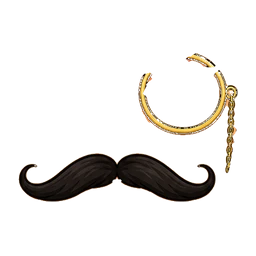
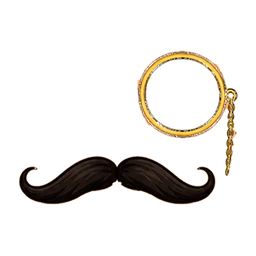
The beard: grows a level a day unshaven (the artist's 3 levels), «Побриться» with a razor in the hero editor, achievements «Небритый» and «Брадобрей»; the monocle redrawn by the artist
Claude-Session: https://claude.ai/code/session_01E3jaUxUo8xTQNwyakAWMq3

Changed region(s): [[0.0625, 0.5938, 0.8438, 0.8125], [0.5312, 0.1875, 0.9375, 0.6875]]

diff --git a/src/server/systems/home.ts b/src/server/systems/home.ts
@@ -1,6 +1,6 @@
 import { GameError, type Queryable } from "../db.ts";
 import { grantReward, ledger, takeMoney, type Ctx } from "../core.ts";
-import { EQUIPMENT, FIRST_STEPS_GIFT, pieceUnlockId, HELP_TOPICS, TROPHIES, baseBit, equipmentById, hasPiece, piecesCount, normalizeLook, roomById, roomUnlockId, roomsEnergyBonus, totalBonus, type HelpTopic, type Look } from "../../content/home.ts";
+import { EQUIPMENT, FIRST_STEPS_GIFT, pieceUnlockId, HELP_TOPICS, TROPHIES, baseBit, equipmentById, hasPiece, piecesCount, normalizeLook, roomById, roomUnlockId, roomsEnergyBonus, totalBonus, type HelpTopic, type Look, beardLevel, unshavenDays } from "../../content/home.ts";
 import { bossById } from "../../content/bosses.ts";
 import { craftBonus } from "./craft.ts";
 import { TALENT_RESET_PRICE, autoStop, autoTalentsOpen, stopLevel, stopOpen, talentExtras, talentStop, talentsSpent, type WeaponTalents } from "../../content/talents.ts";
@@ -16,12 +16,13 @@ export async function homeData(q: Queryable, pid: number): Promise<HomeRow> {
   const [a] = await q.query<{ room: string; rooms: string[] | null; body: unknown; decor: Record<string, number> | null }>("SELECT room, rooms, body, decor FROM appearance WHERE player_id=$1", [pid]);
   const rooms = Array.isArray(a?.rooms) && a.rooms.length ? a.rooms : ["basic"];
   const tr = await q.query<{ item_id: string }>("SELECT item_id FROM inventory WHERE player_id=$1 AND qty > 0 AND item_id = ANY($2)", [pid, TROPHIES.map((t) => t.id)]);
+  const [sh] = await q.query<{ shaved_at: Date | null }>("SELECT shaved_at FROM players WHERE id=$1", [pid]);
   return {
     levels: Object.fromEntries(eq.map((e) => [e.equipment_id, e.level])),
     pieces: Object.fromEntries(eq.filter((e) => e.pieces > 0).map((e) => [e.equipment_id, Number(e.pieces)])),
     rooms,
     room: a && rooms.includes(a.room) ? a.room : "basic",
-    body: normalizeLook(a?.body),
+    body: { ...normalizeLook(a?.body), beard: sh?.shaved_at ? beardLevel(new Date(sh.shaved_at).getTime(), Date.now()) : 0 },
     decor: a?.decor && typeof a.decor === "object" ? a.decor : {},
     trophies: tr.map((t) => t.item_id),
   };
@@ -254,3 +255,15 @@ export async function starterGift(ctx: Ctx) {
 }
 
 export const EQUIPMENT_IDS = EQUIPMENT.map((e) => e.id);
+
+/** «Побриться»: the beard is gone, it starts growing again; counts the shaves and the longest unshaven run */
+export async function shave(ctx: Ctx) {
+  const [p] = await ctx.q.query<{ shaved_at: Date }>("SELECT shaved_at FROM players WHERE id=$1 FOR UPDATE", [ctx.pid]);
+  const days = unshavenDays(new Date(p?.shaved_at ?? ctx.now).getTime(), ctx.now);
+  if (days < 1) throw new GameError("no_beard", "Ещё нечего брить — щетина вырастет через сутки");
+  const [r] = await ctx.q.query<{ shaves: number }>(
+    "UPDATE players SET shaved_at=$2, shaves = shaves + 1, beard_best = GREATEST(beard_best, $3) WHERE id=$1 RETURNING shaves",
+    [ctx.pid, new Date(ctx.now), days],
+  );
+  return { days, shaves: Number(r?.shaves ?? 0) };
+}

diff --git a/src/client/screens/stylist.tsx b/src/client/screens/stylist.tsx
@@ -7,6 +7,7 @@ import { ItemArt } from "../art/items.tsx";
 import { ITEMS, weaponById, type Slot } from "../../content/items.ts";
 import { HAIR_COLORS, HAIR_STYLES, type Look } from "../../content/home.ts";
 import { haptic } from "../telegram.ts";
+import { sfx } from "../sound.ts";
 import { HeadArt, type RigEdit } from "../art/rig.tsx";
 import { ART_VER } from "../preload.ts";
 import { TATTOO_SETS, TATTOO_ZONE_NAME, tattooSource, oneTattooPerZone, tattooZone } from "../../content/tattoos.ts";
@@ -244,6 +245,10 @@ export function Stylist({ draft, setDraft, onClose, focus, setFocus }: {
         <button type="button" className={mode === "body" && !inkTab ? "on" : ""} onClick={() => setMode("body")} aria-label="Изменить внешность" title="Изменить внешность"><img src="/assets/ui/tab-look.webp" alt="" draggable={false} /></button>
         <button type="button" className={inkTab ? "on" : ""} onClick={openInk} aria-label="Набить наколки" title="Набить наколки"><img src="/assets/ui/drop-tattoo.webp" alt="" draggable={false} /></button>
         <button type="button" className={mode === "items" && !inkTab ? "on" : ""} onClick={() => setMode("items")} aria-label="Сменить одежду" title="Сменить одежду"><img src="/assets/ui/slot-shirt.webp" alt="" draggable={false} /></button>
+        {/* «Побриться»: the beard (a level a day unshaven) goes; greyed while there is nothing to shave */}
+        <button type="button" className={`sty-shave ${(state?.look.body.beard ?? 0) > 0 ? "" : "idle"}`} disabled={!!busy || (state?.look.body.beard ?? 0) < 1}
+          onClick={async () => { const r = await act<{ days: number }>("shave", {}, (x) => `Побрился — небрит был ${x.days} дн.`); if (r) { haptic.ok(); sfx("tap"); } }}
+          aria-label="Побриться" title={(state?.look.body.beard ?? 0) > 0 ? "Побриться" : "Пока нечего брить — щетина растёт сутки"}><img src="/assets/ui/razor.webp" alt="" draggable={false} /></button>
       </div>
       {/* cancel and save: over the panel, on the sides of the hero's feet */}
       <button type="button" className="sty-big x" onClick={onClose} aria-label="Отмена" title="Отмена"><img src="/assets/ui/btn-cancel.webp" alt="" draggable={false} /></button>

diff --git a/src/server/game.ts b/src/server/game.ts
@@ -60,7 +60,7 @@ export const ACTIONS = [
   "daily_claim", "sell", "sell_many", "rename", "slots_spin",
   "equipment_upgrade", "talent_up", "talent_reset", "talent_auto", "room_buy", "room_set", "look_set", "decor_set", "decor_save", "piece_buy", "help_seen", "starter_gift",
   "quest_claim", "quest_chest", "notify_set", "achievement_claim", "achievement_claim_all", "ach_box_open", "prize_claim", "clan_edit",
-  "game_start", "zonk_move", "zonk_give_up", "zonk_hints", "zonk_choice", "roach_squash", "pigeon_scare", "poker_play", "poker_swap", "poker_stand", "bj_open", "bj_invite", "bj_join", "bj_decline", "bj_leave", "bj_bet", "bj_unbet", "bj_insure", "bj_move", "upgrade", "up_sell", "up_take", "craft_put", "craft_take", "craft_make", "craft_box_buy", "dealer_buy", "craft_split", "dealer_talk", "part_buy",
+  "game_start", "zonk_move", "zonk_give_up", "zonk_hints", "zonk_choice", "roach_squash", "pigeon_scare", "poker_play", "poker_swap", "poker_stand", "bj_open", "bj_invite", "bj_join", "bj_decline", "bj_leave", "bj_bet", "bj_unbet", "bj_insure", "bj_move", "upgrade", "up_sell", "up_take", "craft_put", "craft_take", "craft_make", "craft_box_buy", "dealer_buy", "craft_split", "dealer_talk", "part_buy", "shave",
   "clan_cancel", "clan_accept", "clan_reject", "clan_boss_hit", "duel_create", "duel_answer", "duel_play", "stash_collect", "stash_wish", "stash_gift", "stash_accept", "social_pump", "social_fight", "social_spit", "notes_read",
 ] as const;
 export type ActionType = (typeof ACTIONS)[number];
@@ -220,6 +220,7 @@ function perform(ctx: Ctx, type: ActionType, body: Record<string, unknown>): Pro
     case "craft_make": return craft.craftMake(ctx, str(body.itemId, "itemId", 40));
     case "craft_box_buy": return craft.craftBoxBuy(ctx);
     case "dealer_talk": return shop.dealerTalk(ctx, (Array.isArray(body.answers) ? body.answers : []).slice(0, 12).map((x) => Number(x)));
+    case "shave": return home.shave(ctx);
     case "part_buy": return craft.partBuy(ctx, str(body.itemId, "itemId", 40), num(body.qty, "qty"));
     case "dealer_buy": return craft.dealerBuy(ctx, str(body.itemId, "itemId", 40), body.qty === undefined ? 1 : num(body.qty, "qty"));
     case "craft_split": return craft.craftSplit(ctx, str(body.itemId, "itemId", 40));

diff --git a/src/client/art/icons.tsx b/src/client/art/icons.tsx
@@ -14,13 +14,13 @@ export function Svg({ size = 32, children, vb = "0 0 64 64", className }: { size
 
 export type IconName = string;
 /** Icons drawn by the artist: icon name → public/assets/ui/<file>.webp (built by tools/items/build-items.py). */
-const RASTER_ICONS: Partial<Record<string, string>> = { shirt: "wardrobe", gift: "bonus", bolt: "tech", shop: "shop", exchange: "exchange", map: "tasks", rep: "rep-crown", parts: "parts-pile",
+const RASTER_ICONS: Partial<Record<string, string>> = { shirt: "wardrobe", gift: "bonus", bolt: "tech", shop: "shop", exchange: "exchange", map: "tasks", rep: "rep-crown", parts: "parts-pile", razor: "razor",
   energy: "energy-can", key: "key", RUB: "coin-rub", USD: "coin-usd", SOL: "coin-sol", BTC: "coin-btc", coins: "coins", xp: "authority",
   lock: "lock", clock: "clock", sun: "sun", trophy: "trophy", swords: "swords", chest: "chest", mail: "mail", news: "news", fire: "fire", talent: "talent",
   // achievement pictures (tools/ui/cut-achievements.py)
   "ach-damage": "ach-damage", "ach-hits": "ach-hits", "ach-wins": "ach-wins", "ach-yard": "ach-yard", "ach-chests": "ach-chests", "ach-weekly": "ach-weekly", "ach-solo": "ach-solo",
   // the second set (tools/ui/cut-achievements-2.py)
-  ...Object.fromEntries(["ach-blat", "ach-avtor", "ach-allboss", "ach-savings", "ach-slots", "ach-upgrader", "ach-zonk", "ach-poker", "ach-clan", "ach-leader", "ach-raid", "ach-nishtyak", "ach-shop", "ach-bj", "ach-spit", "ach-trainer", "ach-winner", "ach-wall", "ach-craft1", "ach-craft2", "ach-craft3", "ach-stashbox", "ach-parts"].map((n) => [n, n])),
+  ...Object.fromEntries(["ach-blat", "ach-avtor", "ach-allboss", "ach-savings", "ach-slots", "ach-upgrader", "ach-zonk", "ach-poker", "ach-clan", "ach-leader", "ach-raid", "ach-nishtyak", "ach-shop", "ach-bj", "ach-spit", "ach-trainer", "ach-winner", "ach-wall", "ach-craft1", "ach-craft2", "ach-craft3", "ach-stashbox", "ach-parts", "ach-razor"].map((n) => [n, n])),
 };
 
 export function Icon({ name, size = 28, className }: { name: IconName; size?: number; className?: string }) {

diff --git a/src/content/updates.ts b/src/content/updates.ts
@@ -23,6 +23,7 @@ export const UPDATES: UpdateNote[] = [
     items: [
       { text: "В наездах теперь решает и удача: равная бицуха — 50 на 50, вдвое слабее — 10% победить. Лимитов больше нет, только час перезарядки на одного игрока." },
       { text: "Новые достижения: Тренер, Победитель, Стена, Мастер (вещи 1, 2 уровня и оружие), Заначка, Полная заначка и Старьёвщик. Кейс у торговца стал больше — в него помещается больше добычи." },
+      { text: "Отрастает борода: день без бритья — щетина, два — борода, три — густая борода. Побриться — бритвой в редактировании героя. Новые достижения «Небритый» и «Брадобрей». Монокль с усами перерисован." },
       { text: "В наградах детали для крафта теперь одной строкой: значок кучки деталей и общее количество (×10). Какие именно — видно по нажатию." },
       { text: "Боссы разделены на вкладки: «Админы», «Менторы» и «Бригадные» (последние две скоро). Клановый босс переезжает в «Бригадные»." },
       { text: "Новое достижение «Крутизна шмота» — 10 ступеней, от 10 до 12 000 крутизны в заначке крафта." },

diff --git a/src/client/art/rig.tsx b/src/client/art/rig.tsx
@@ -12,6 +12,7 @@ import { ART_VER, usedUrl } from "../preload.ts";
 import type { PointerEvent as ReactPointerEvent, ReactNode } from "react";
 import { createContext, useContext, useEffect, useId, useMemo, useRef } from "react";
 import { RIG } from "./rig-data.ts";
+import { BEARD_FIT } from "./beard-data.ts";
 import { HAIR_CUT_HATS, HAIR_FIT, HATS_ON_HAIR, SKIN_ORIGINAL, WEAR_FIT } from "./rig-look.ts";
 import { HELD_FIT } from "./held-data.ts";
 import { TATTOO_FIT } from "./tattoo-data.ts";
@@ -339,6 +340,14 @@ function Mouth() {
   );
 }
 
+/** the beard: a level a day unshaven (look.beard 1–3), over the face and the jaw, under the face things */
+function Beard() {
+  const { beard } = useContext(LookCtx);
+  const f = beard ? BEARD_FIT[beard] : null;
+  if (!f) return null;
+  return <image href={`/assets/hero/beard-${beard}.webp?v=${ART_VER.heroPart}`} x={f.x} y={f.y} width={f.w} height={f.h} preserveAspectRatio="none" pointerEvents="none" />;
+}
+
 /** where the diamond teeth glint (rig coordinates over the mouth) and when (s) */
 const GLINTS: [number, number, number][] = [[485, 253, 0], [503, 256, 1.3], [520, 252, 2.6], [495, 266, 3.7], [515, 267, 5.1]];
 
@@ -496,6 +505,7 @@ function RigBody({ seat, look, worn, seatOnly, edit }: { seat?: boolean | number
           <Bone p="head" className="rig-head">
             <Face />
             <Mouth />
+            <Beard />
             <Wear slot="FACE" />
             <Wear slot="HEAD" hat="under" />
             <Hair />

diff --git a/src/server/systems/achievements.ts b/src/server/systems/achievements.ts
@@ -7,6 +7,7 @@ import { slotLevel } from "../../content/slots.ts";
 import { pokerLevel } from "../../content/games.ts";
 import { countersOf } from "./counters.ts";
 import { CRAFT_BOXES, craftBonusOf } from "../../content/craft.ts";
+import { unshavenDays } from "../../content/home.ts";
 import { talentsForDamage } from "../../content/talents.ts";
 import { TATTOO_SETS, tattooSetOf } from "../../content/tattoos.ts";
 
@@ -140,8 +141,12 @@ export async function statsFor(q: Queryable, pid: number, _cfg?: Config): Promis
   const craftStash: (string | null)[] = Array(CRAFT_BOXES).fill(null);
   for (const r of await q.query<{ slot: number; item_id: string }>("SELECT slot, item_id FROM player_craft_box WHERE player_id=$1", [pid])) if (r.slot >= 0 && r.slot < CRAFT_BOXES) craftStash[r.slot] = r.item_id;
   const craftPower = craftBonusOf(craftStash).power;
+  // the beard: shaves, and the longest unshaven run (the current one counts too)
+  const [bd] = await q.query<{ shaves: number; beard_best: number; shaved_at: Date }>("SELECT shaves, beard_best, shaved_at FROM players WHERE id=$1", [pid]);
+  const unshaven = Math.max(Number(bd?.beard_best ?? 0), bd?.shaved_at ? unshavenDays(new Date(bd.shaved_at).getTime(), Date.now()) : 0);
+  const shaves = Number(bd?.shaves ?? 0);
   return {
-    craftPower,
+    craftPower, unshaven, shaves,
     ...third,
     ...second,
     ...stash,

diff --git a/src/content/home.ts b/src/content/home.ts
@@ -245,7 +245,12 @@ export const SKIN_TONES = [
   { base: "#5e3a24", shade: "#432717" },
 ] as const;
 
-export interface Look { hair: string; hairColor: number; eyes: number; skin: number; /** inked tattoos (content/tattoos.ts) */ tattoos?: string[] }
+export interface Look { hair: string; hairColor: number; eyes: number; skin: number; /** inked tattoos (content/tattoos.ts) */ tattoos?: string[]; /** the beard level 0–3 (a level a day unshaven; server-made) */ beard?: number }
+/** the beard: a level a day since the last shave, at most BEARD_MAX */
+export const BEARD_MAX = 3;
+export const DAY_MS = 86_400_000;
+export const unshavenDays = (shavedAt: number, now: number) => Math.max(0, Math.floor((now - shavedAt) / DAY_MS));
+export const beardLevel = (shavedAt: number, now: number) => Math.min(BEARD_MAX, unshavenDays(shavedAt, now));
 export const DEFAULT_LOOK: Look = { hair: "bald", hairColor: 0, eyes: 0, skin: 1, tattoos: [] };
 
 export function normalizeLook(v: unknown): Look {

diff --git a/tests/game.test.ts b/tests/game.test.ts
@@ -829,6 +829,18 @@ describe("selling, nickname, slot machine 777", () => {
   });
 });
 
+describe("the beard", () => {
+  it("grows a level a day (3 at most); a shave takes it off, counts the shaves and the longest run", async () => {
+    const p = await newPlayer(db);
+    await db.query("UPDATE players SET shaved_at=$2 WHERE id=$1", [p, new Date(T0)]);
+    await expect(act(db, p, "shave", {}, T0 + 3600_000)).rejects.toMatchObject({ code: "no_beard" });
+    const r = await act(db, p, "shave", {}, T0 + 5 * 86_400_000 + 1000);
+    expect(r.result).toMatchObject({ days: 5, shaves: 1 });
+    const [row] = await db.query<{ beard_best: number }>("SELECT beard_best FROM players WHERE id=$1", [p]);
+    expect(Number(row.beard_best)).toBe(5);
+  });
+});
+
 describe("«Ящик ништяков»", () => {
   it("one box for every 5 achievement points; the points stay", async () => {
     const p = await newPlayer(db);

diff --git a/src/client/asset-manifest.ts b/src/client/asset-manifest.ts
@@ -91,6 +91,9 @@ export const ASSET_FILES: string[] = [
  "/assets/exchange/table.webp",
  "/assets/hero/armUL.webp",
  "/assets/hero/armUR.webp",
+ "/assets/hero/beard-1.webp",
+ "/assets/hero/beard-2.webp",
+ "/assets/hero/beard-3.webp",
  "/assets/hero/brows.webp",
  "/assets/hero/eyes-closed.webp",
  "/assets/hero/eyes.webp",
@@ -1784,6 +1787,7 @@ export const ASSET_FILES: string[] = [
  "/assets/ui/ach-parts.webp",
  "/assets/ui/ach-poker.webp",
  "/assets/ui/ach-raid.webp",
+ "/assets/ui/ach-razor.webp",
  "/assets/ui/ach-savings.webp",
  "/assets/ui/ach-shop.webp",
  "/assets/ui/ach-slots.webp",
@@ -1869,6 +1873,7 @@ export const ASSET_FILES: string[] = [
  "/assets/ui/pr-dossier.webp",
  "/assets/ui/pr-fight.webp",
  "/assets/ui/pr-spit.webp",
+ "/assets/ui/razor.webp",
  "/assets/ui/rep-crown.webp",
  "/assets/ui/rub.webp",
  "/assets/ui/shop.webp",

diff --git a/src/server/action-text.ts b/src/server/action-text.ts
@@ -53,6 +53,7 @@ export function actionText(type: string, body: Row, result: unknown): string | n
     case "exchange": return `${fmt(r.paid)} ${r.from} → ${fmt(r.got)} ${r.to}`;
     case "sell": return join(`${item(r.itemId)} ×${fmt(r.qty)}`, grantedText(r.got) || (typeof r.got === "number" ? `+${fmt(r.got)} RUB` : null));
     case "dealer_talk": return `поболтал с барыгой (${fmt(r.score)} очков)${r.bonus ? " · курс получше на 2 ч" : ""}`;
+    case "shave": return `побрился (небрит ${fmt(r.days)} дн.)`;
     case "part_buy": return `купил ${item(r.itemId)} ×${fmt(r.qty)} · −${fmt(r.paid)} USD`;
     case "sell_many": return `продал ${fmt(r.count)} шт. · +${fmt(r.got)} RUB`;
     case "use": return join(item(r.itemId), n(r.energy) ? `энергия ${fmt(r.energy)}` : null);

diff --git a/src/content/achievements.ts b/src/content/achievements.ts
@@ -233,6 +233,8 @@ export const ACH_CATEGORIES: AchCategory[] = [
     ],
   },
   series("parts", "misc", "Старьёвщик", "ach-parts", "parts", [100, 500, 1_000, 5_000, 10_000], (n) => `Собери ${n} деталей для крафта`),
+  series("unshaven", "misc", "Небритый", "ach-razor", "unshaven", [1, 2, 3, 5, 10], (n) => `Не брейся ${n} дн. подряд`),
+  series("shaves", "misc", "Брадобрей", "ach-razor", "shaves", [1, 3, 5, 10, 25], (n) => `Побрейся ${n} раз`),
   series("craft-power", "misc", "Крутизна шмота", "ach-craft2", "craftPower", [10, 50, 150, 400, 800, 1_500, 3_000, 5_000, 8_000, 12_000], (n) => `Набери ${n} крутизны в заначке крафта`),
 ];
 
